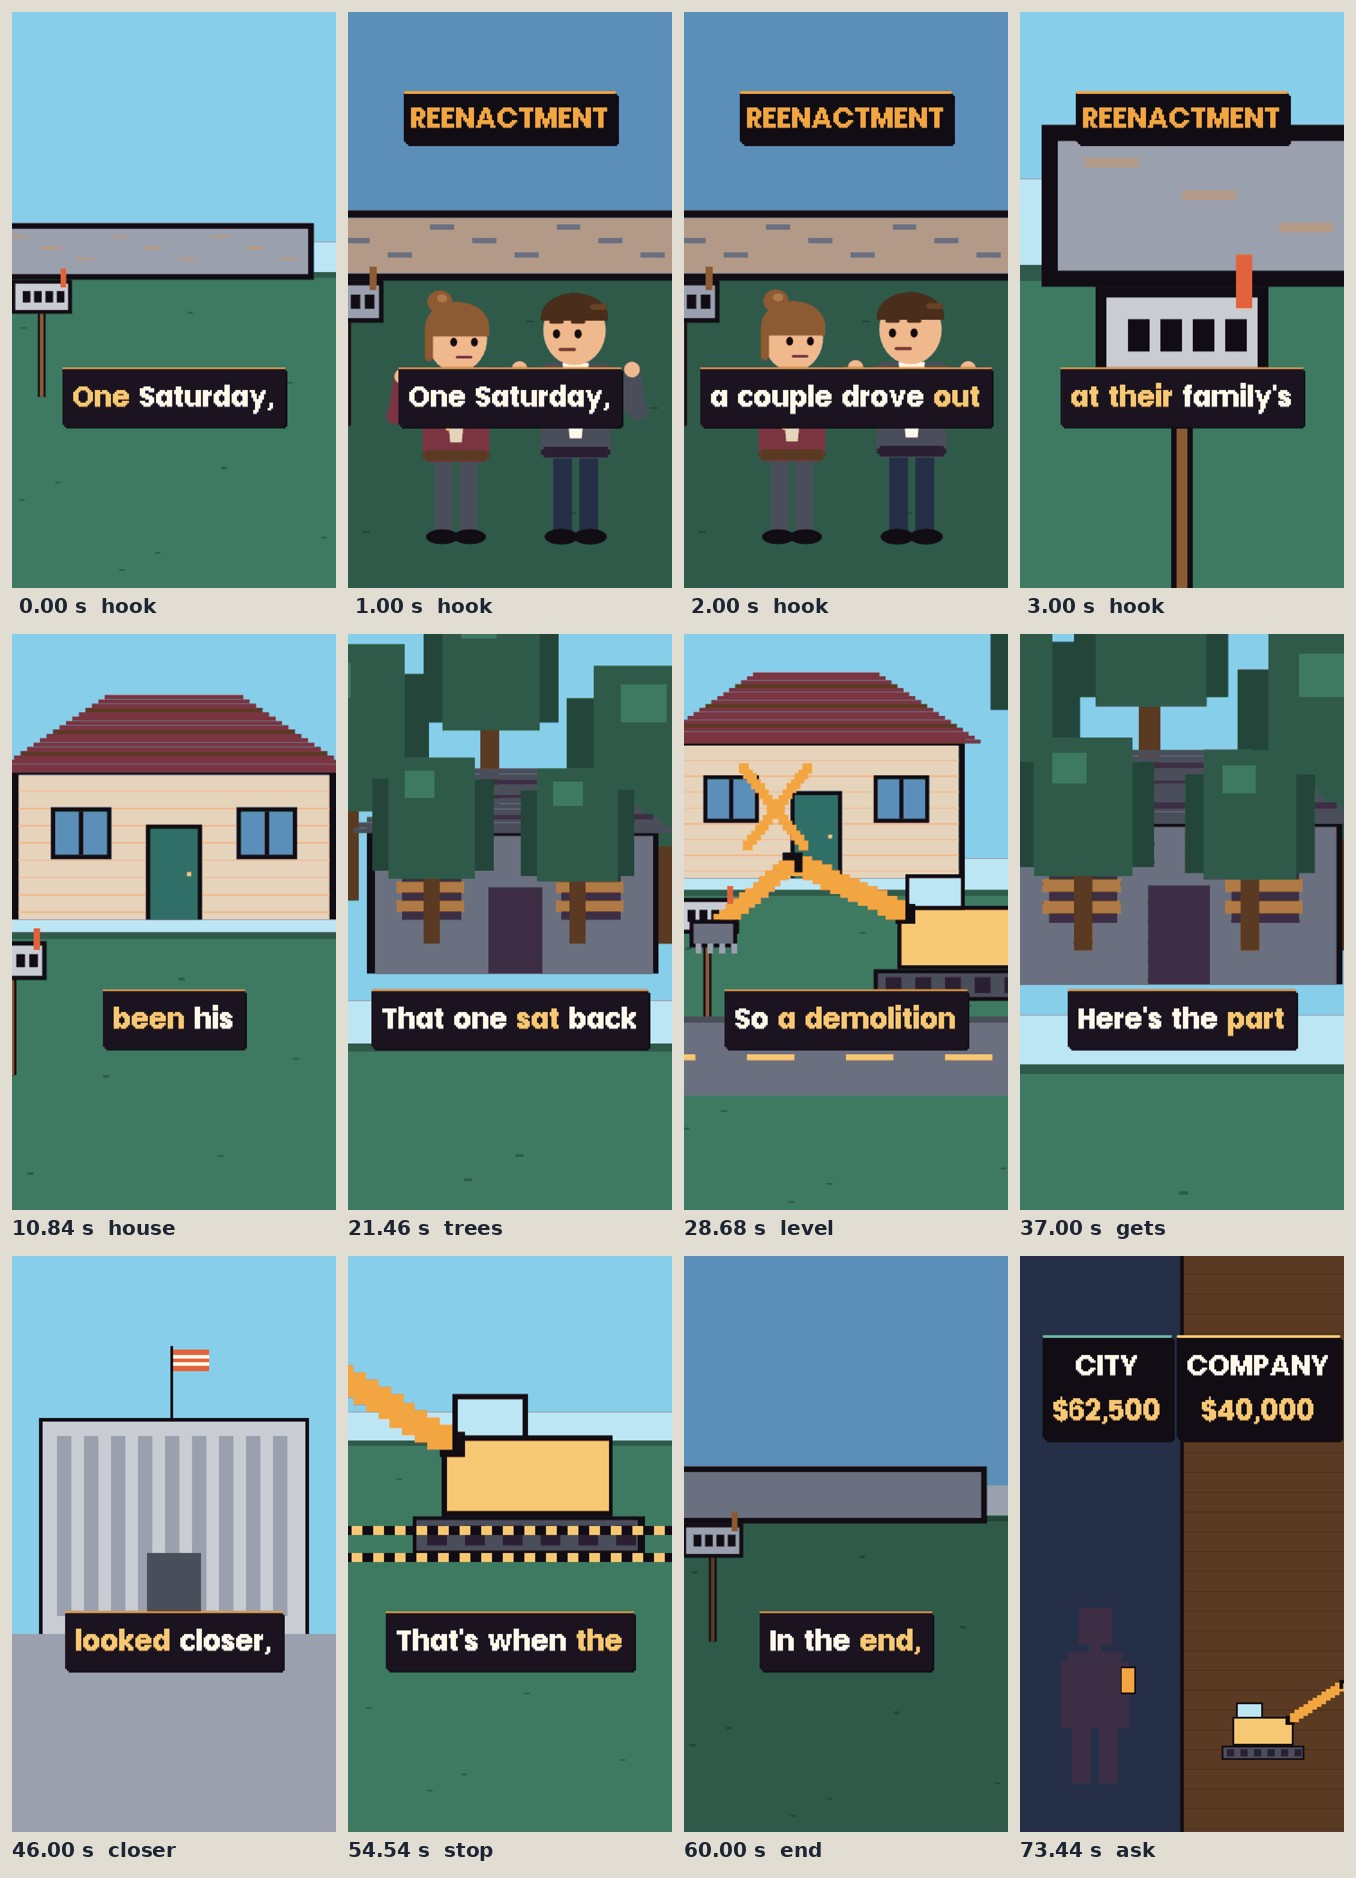
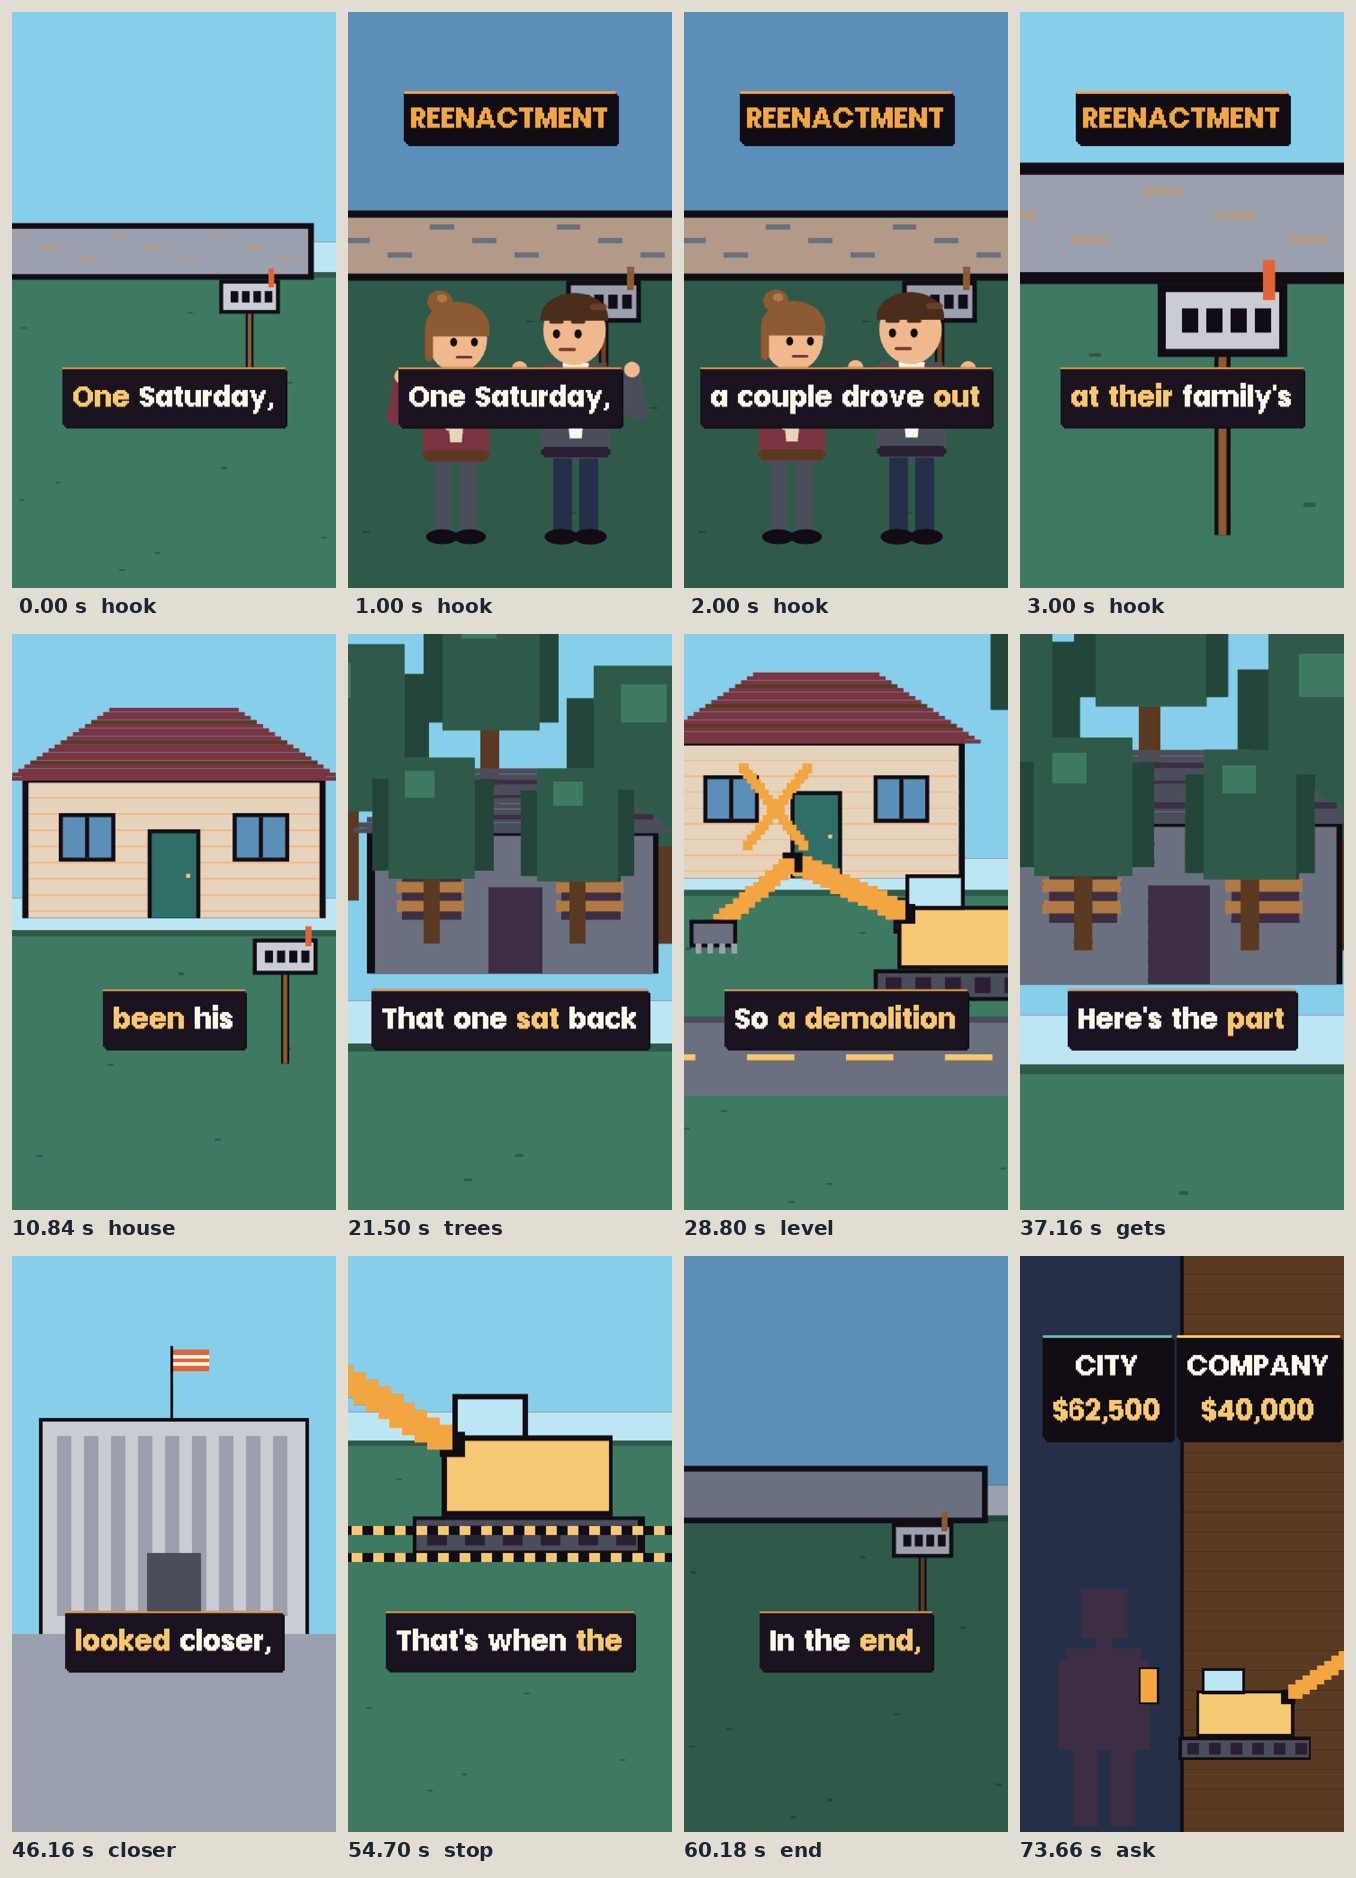
studio: 2026-12-05-wrong-house render 4 (voice re-rolled takes 3 and 5; frozen and flat fixed; one voice flag left for Todd's ear); HANDOFF Videos line
Claude-Session: https://claude.ai/code/session_01XMn4eLMGN11Nq3bXeBgpFU

diff --git a/video/studio/videos/2026-12-05-wrong-house/03_cues/cues.js b/video/studio/videos/2026-12-05-wrong-house/03_cues/cues.js
@@ -1,1 +1,1 @@
-window.CUES = {"schema": "pnf.studio.cues.v1", "source": "whisper medium.en int8, re-spelled from script.md", "music": {"id": "rooms", "level": 0.16, "tune": "night"}, "duration": 73.74, "cues": [{"id": "hook", "level": 0, "quote": "One Saturday, a couple", "sfx": "pop", "shift": 0.0, "pin": null, "text": "Frame 0, wide and settled: the lot, a bare grey slab where a house stood, one mailbox at the curb, trees behind. At 0.5 s a plain cut to the couple close, stunned, palms up (the first acted frame): the small label REENACTMENT up top for about 3 s. On \"mow\" a plain cut close on the mailbox standing alone beside the slab. On \"the house was gone\" back to the wide slab.", "t": 0.0, "word": 0, "end": 6.56}, {"id": "slab", "level": 0, "quote": "All that was left", "sfx": "blip", "shift": 0.0, "pin": null, "text": "Closer on the slab and the mailbox, the lawn grown up to the edge; on \"mailbox\" the camera eases in on it.", "t": 6.56, "word": 20, "end": 10.24}, {"id": "house", "level": 0, "quote": "The house had been", "sfx": "whoosh", "shift": 0.0, "pin": null, "text": "A plain cut to the house as it was: small, three bedrooms, a red roof, the mailbox at the curb. On \"Fort Worth\" the plate: FORT WORTH, TEXAS.", "t": 10.24, "word": 31, "end": 16.88}, {"id": "order", "level": 0, "quote": "The city had ordered", "sfx": "blip", "shift": 0.0, "pin": null, "text": "The street, wide: their house on the left, the condemned house on the right, set back in the trees.", "t": 16.88, "word": 50, "end": 20.86}, {"id": "trees", "level": 0, "quote": "That one sat back", "sfx": "blip", "shift": 0.0, "pin": null, "text": "Close on the condemned house in the trees, boarded; on \"mailbox\" closer on its faded mailbox, the number barely there.", "t": 20.86, "word": 61, "end": 25.14}, {"id": "mark", "level": 0, "quote": "and a city worker marked", "sfx": "whoosh", "shift": 0.0, "pin": null, "text": "A plain cut to their house, close: a city worker (a plain dark shape, no source describes them) sprays an orange X on the wall.", "t": 25.14, "word": 75, "end": 28.08}, {"id": "level", "level": 0, "quote": "So a demolition company's", "sfx": "stamp", "shift": 0.0, "pin": null, "text": "The street, wide: the excavator's arm comes down on their house; the house breaks, dust flies; then rubble.", "t": 28.08, "word": 83, "end": 31.16}, {"id": "neighbor", "level": 0, "quote": "A neighbor says", "sfx": "blip", "shift": 0.0, "pin": null, "text": "Behind a fence, a neighbor (a plain dark shape) on the phone; the machine's arm working beyond them.", "t": 31.16, "word": 90, "end": 36.4}, {"id": "gets", "level": 0, "quote": "Here's the part", "sfx": "pop", "shift": 0.0, "pin": null, "text": "A plain cut, close: the condemned house, still standing in the trees.", "t": 36.4, "word": 106, "end": 38.32}, {"id": "bill", "level": 0, "quote": "The condemned house was", "sfx": "blip", "shift": 0.0, "pin": null, "text": "The condemned house held; on \"bill\" a plain cut to a bill on a desk, and on \"over\" the plate: OVER $6,000.", "t": 38.32, "word": 112, "end": 45.4}, {"id": "closer", "level": 0, "quote": "When the city looked", "sfx": "whoosh", "shift": 0.0, "pin": null, "text": "A plain cut to city hall, its flag, wide; on \"found\" closer on the doors.", "t": 45.4, "word": 133, "end": 51.46}, {"id": "other", "level": 0, "quote": "one that nobody", "sfx": "stamp", "shift": 0.0, "pin": null, "text": "A plain cut to another lot: the same excavator knocking down a small back building.", "t": 51.46, "word": 151, "end": 53.94}, {"id": "stop", "level": 0, "quote": "That's when the city", "sfx": "stamp", "shift": 0.0, "pin": null, "text": "The excavator parked and still, barrier tape across the frame.", "t": 53.94, "word": 158, "end": 57.2}, {"id": "back", "level": 0, "quote": "None of that brought", "sfx": "blip", "shift": 0.0, "pin": null, "text": "The couple close at the slab again, quiet; the mailbox beside them.", "t": 57.2, "word": 165, "end": 59.4}, {"id": "end", "level": 0, "quote": "In the end", "sfx": "stamp", "shift": 0.0, "pin": null, "text": "The slab, wide; on \"hundred\" the plate lands: $102,500; on \"city\" a second row: CITY $62,500.", "payoff": true, "t": 59.4, "word": 172, "end": 66.08}, {"id": "ask", "level": 0, "quote": "So who should have", "sfx": "blip", "shift": 0.0, "pin": null, "text": "The frame splits: the city worker with the orange can on the left, the excavator on the right. On \"city\" the left label: CITY $62,500; on \"company\" the right label: COMPANY $40,000. Ends 1 s after the last word.", "t": 66.08, "word": 193, "end": 73.74}]};
+window.CUES = {"schema": "pnf.studio.cues.v1", "source": "whisper medium.en int8, re-spelled from script.md", "music": {"id": "rooms", "level": 0.16, "tune": "night"}, "duration": 73.96, "cues": [{"id": "hook", "level": 0, "quote": "One Saturday, a couple", "sfx": "pop", "shift": 0.0, "pin": null, "text": "Frame 0, wide and settled: the lot, a bare grey slab where a house stood, one mailbox at the curb, trees behind. At 0.5 s a plain cut to the couple close, stunned, palms up (the first acted frame): the small label REENACTMENT up top for about 3 s. On \"mow\" a plain cut close on the mailbox standing alone beside the slab. On \"the house was gone\" back to the wide slab.", "t": 0.0, "word": 0, "end": 6.56}, {"id": "slab", "level": 0, "quote": "All that was left", "sfx": "blip", "shift": 0.0, "pin": null, "text": "Closer on the slab and the mailbox, the lawn grown up to the edge; on \"mailbox\" the camera eases in on it.", "t": 6.56, "word": 20, "end": 10.24}, {"id": "house", "level": 0, "quote": "The house had been", "sfx": "whoosh", "shift": 0.0, "pin": null, "text": "A plain cut to the house as it was: small, three bedrooms, a red roof, the mailbox at the curb. On \"Fort Worth\" the plate: FORT WORTH, TEXAS.", "t": 10.24, "word": 31, "end": 16.88}, {"id": "order", "level": 0, "quote": "The city had ordered", "sfx": "blip", "shift": 0.0, "pin": null, "text": "The street, wide: their house on the left, the condemned house on the right, set back in the trees.", "t": 16.88, "word": 50, "end": 20.9}, {"id": "trees", "level": 0, "quote": "That one sat back", "sfx": "blip", "shift": 0.0, "pin": null, "text": "Close on the condemned house in the trees, boarded; on \"mailbox\" closer on its faded mailbox, the number barely there.", "t": 20.9, "word": 61, "end": 25.38}, {"id": "mark", "level": 0, "quote": "and a city worker marked", "sfx": "whoosh", "shift": 0.0, "pin": null, "text": "A plain cut to their house, close: a city worker (a plain dark shape, no source describes them) sprays an orange X on the wall.", "t": 25.38, "word": 75, "end": 28.2}, {"id": "level", "level": 0, "quote": "So a demolition company's", "sfx": "stamp", "shift": 0.0, "pin": null, "text": "The street, wide: the excavator's arm comes down on their house; the house breaks, dust flies; then rubble.", "t": 28.2, "word": 83, "end": 31.2}, {"id": "neighbor", "level": 0, "quote": "A neighbor says", "sfx": "blip", "shift": 0.0, "pin": null, "text": "Behind a fence, a neighbor (a plain dark shape) on the phone; the machine's arm working beyond them.", "t": 31.2, "word": 90, "end": 36.56}, {"id": "gets", "level": 0, "quote": "Here's the part", "sfx": "pop", "shift": 0.0, "pin": null, "text": "A plain cut, close: the condemned house, still standing in the trees.", "t": 36.56, "word": 106, "end": 38.48}, {"id": "bill", "level": 0, "quote": "The condemned house was", "sfx": "blip", "shift": 0.0, "pin": null, "text": "The condemned house held; on \"bill\" a plain cut to a bill on a desk, and on \"over\" the plate: OVER $6,000.", "t": 38.48, "word": 112, "end": 45.56}, {"id": "closer", "level": 0, "quote": "When the city looked", "sfx": "whoosh", "shift": 0.0, "pin": null, "text": "A plain cut to city hall, its flag, wide; on \"found\" closer on the doors.", "t": 45.56, "word": 133, "end": 51.6}, {"id": "other", "level": 0, "quote": "one that nobody", "sfx": "stamp", "shift": 0.0, "pin": null, "text": "A plain cut to another lot: the same excavator knocking down a small back building.", "t": 51.6, "word": 151, "end": 54.1}, {"id": "stop", "level": 0, "quote": "That's when the city", "sfx": "stamp", "shift": 0.0, "pin": null, "text": "The excavator parked and still, barrier tape across the frame.", "t": 54.1, "word": 158, "end": 57.36}, {"id": "back", "level": 0, "quote": "None of that brought", "sfx": "blip", "shift": 0.0, "pin": null, "text": "The couple close at the slab again, quiet; the mailbox beside them.", "t": 57.36, "word": 165, "end": 59.58}, {"id": "end", "level": 0, "quote": "In the end", "sfx": "stamp", "shift": 0.0, "pin": null, "text": "The slab, wide; on \"hundred\" the plate lands: $102,500; on \"city\" a second row: CITY $62,500.", "payoff": true, "t": 59.58, "word": 172, "end": 66.32}, {"id": "ask", "level": 0, "quote": "So who should have", "sfx": "blip", "shift": 0.0, "pin": null, "text": "The frame splits: the city worker with the orange can on the left, the excavator on the right. On \"city\" the left label: CITY $62,500; on \"company\" the right label: COMPANY $40,000. Ends 1 s after the last word.", "t": 66.32, "word": 193, "end": 73.96}]};

diff --git a/video/studio/videos/2026-12-05-wrong-house/02_transcript/mouth.js b/video/studio/videos/2026-12-05-wrong-house/02_transcript/mouth.js
@@ -1,1 +1,1 @@
[2 lines of base64/hex data omitted]

diff --git a/video/studio/videos/2026-12-05-wrong-house/04_scene/scene.js b/video/studio/videos/2026-12-05-wrong-house/04_scene/scene.js
@@ -299,7 +299,7 @@ window.SCENE = {
     end: (k, T) => {
       const t0 = k.S('end'), tH = W(k, 'end', /^hundred/i, 1.9), tC = W(k, 'end', /^city/i, 4.8);
       k.cut(t0);
-      push(k, T, t0, () => lot(k, LOT, 0.35), 0.05, 1000);
+      { const c = k.ctx, z = 1 + 0.16 * clamp((T - t0) / 7); c.save(); c.translate(540, 1000); c.scale(z, z); c.translate(-540, -1000); lot(k, LOT, 0.35); c.restore(); }   /* a push in over the whole cue (qa: flat) */
       if (T >= tH) steps(k, T, [[tH, [['$102,500', 198, GOLD]], 1], [tC, [['$102,500', 198, GOLD], ['CITY $62,500', 132, CREAM]], 1]]);
       return {host: false};
     },

diff --git a/coo/HANDOFF.md b/coo/HANDOFF.md
@@ -5,7 +5,7 @@ Current state only; history: coo/DECISIONS-*.md. Goal: one $1,000 net month by J
 - Money: 0 payers, 0 replies. Live: Chicago and Austin cleaning leads $29, restaurant $39, pest seat (3 seats), area seats (6 open), free calculators, 11 Chicago data pages.
 - Outreach: trade owners only, standing send rule, toward 120 first emails (Mon 9:40 am). Senders hello@ (25/day), sales@. Entity A: 720 GC leads. Trial offer Wed 9:50 am.
 - Site: question pages daily (box drafts from Nov 8); news, index, radar on the 1st and 15th. Index 90/101 (Oct 30). Radar: health 4 PASS, AI 0 of 12.
-- Videos: engine v4 (annex), 4 gates, labels IG/FB/TikTok on, 1 post a day (8:13 pm). Nov 18 (Todd): making paused (config makePaused) for a redesign: story first, 45 to 90 s, Reenactment as an on-screen tag only, freeze lifted, split check for open endings only (DECISIONS-2026-11-18, its design link). Next: the Opus build chat (formats.md Story section, anim.py checks, story bank), then Todd watches the first new lesson. 4 v4 posted (Nov 9, 12, 14, 17); update, demo and host trials held. Bars: TEST-2026-11-23.md. Old formats held. Todd, own chat: feed sign-ins, TikTok by hand.
+- Videos: Nov 18 build Part A (BUILD-2026-11-18.md): format `told` live in formats.md, anim.py (story test, readcheck in lint and ready), pick gate; voice stability 0.5 (Todd). First told lesson 2026-12-05-wrong-house: script gates PASS, rendered; second-check shelved (pick). makePaused stays until Todd watches it. Todd: paste schedule/record-and-make.txt into the task. Next: Part B (animation).
 - Box: every studio run fills the GEEKOM night queue; no Fable anywhere.
 - Foundations (Nov 7): constitution is a core plus annexes in coo/constitution/; the context gate counts the full load; the studio reads by step. Open: Todd's account connector cleanup; his call on pausing video-line changes. Video lab: no notes since Oct 29.
 - Priority (Todd, Nov 8): perfect the social engine. Next: asset scan. Radar redesign: launches/radar-design-brief.md. Grid-down library: steps 1 to 4 live Nov 7 (geekom.local, laptop only; PNF-OFFLINE, outage port, offline-chat); Model Chat live; media models queued (scripts/media); model scout Sun; next modem test Sun 1 to 3:30 pm, then 5, 6, drill.

diff --git a/video/studio/videos/2026-12-05-wrong-house/02_transcript/transcript.md b/video/studio/videos/2026-12-05-wrong-house/02_transcript/transcript.md
@@ -3,7 +3,6 @@
 Voice W3pJy9ibur1FKUihVxzY (eleven_v4), 214 words, 73.0 s of voice.
 
 ## Flags
-- 7.8 s heard 'bear' for 'bare'
 - dropped 'and': not heard
 
 ## Pace per take (target 160 to 195 wpm)
